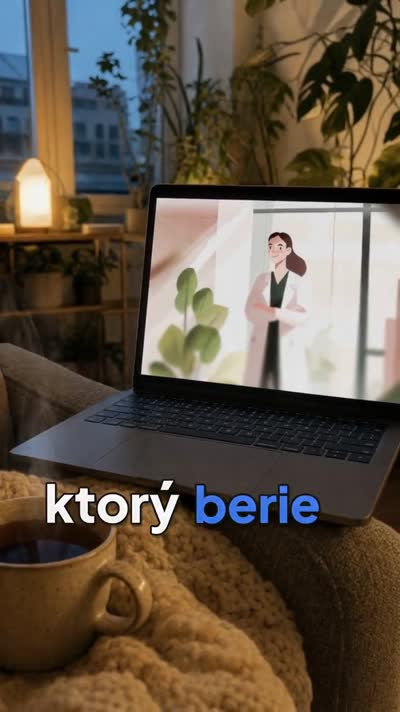
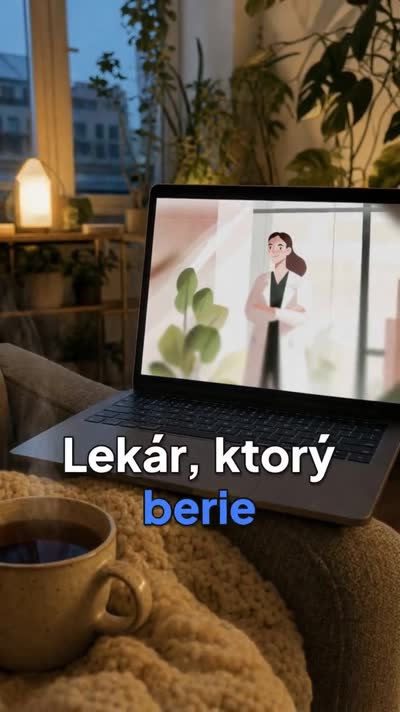
web: language toggles skip a dub in the market's own language; Manus winner hunt (3 tasks) in demo/manus.ts; REVIEW_B_1200 with screenshots; posters from the 11:42/11:50 renders

Changed region(s): [[0.09, 0.5871, 0.84, 0.7725]]

diff --git a/demo/manus.ts b/demo/manus.ts
@@ -4,8 +4,10 @@
 // unpublished in its workspace. Results go to src/lib/client/manus-tasks.json so every machine shows them offline.
 //   pnpm exec tsx demo/manus.ts research dynova evreon
 //   pnpm exec tsx demo/manus.ts landing pack_1d68be0a_1 ...
-//   pnpm exec tsx demo/manus.ts status        (polls every task; fills results and landing titles)
+//   pnpm exec tsx demo/manus.ts hunt hound aclinic dynova   (Mete 11:54: the strongest ads and organic posts per category)
+//   pnpm exec tsx demo/manus.ts status        (polls every task; fills results and landing titles; writes coord/WINNERS_MANUS.md)
 import fs from "node:fs";
+import { z } from "zod";
 import { loadEnv } from "../scripts/env";
 
 loadEnv();
@@ -20,7 +22,31 @@ type Research = Task & {
   communities?: { name: string; note: string }[];
 };
 type Landing = Task & { title?: string; publishStatus?: string };
-type Store = { research: Record<string, Research>; landings: Record<string, Landing> };
+type Hunt = Task & { category: string; items?: z.infer<typeof Winners>["items"] };
+type Store = { research: Record<string, Research>; landings: Record<string, Landing>; hunts?: Record<string, Hunt> };
+
+// Mete's brief (12 Oct 11:54), verbatim apart from the category
+const CATEGORY: Record<string, string> = {
+  hound: "dog-training / puppy apps (Dogo, Woofz, Pupford, Zigzag, GoodPup)",
+  aclinic: "GLP-1 / weight-care telehealth (Hims & Hers, Voy, Numan, Juniper, Ro, Found; SK/CZ creators)",
+  dynova: "DNA tests + personalized supplements (23andMe, Viome, Nebula, Ritual, Care/of, AG1; TR players)",
+};
+const huntPrompt = (category: string) =>
+  `Find the 5 strongest ads and 5 strongest organic posts in ${category} in the last 90 days: paid ads running 45+ days or in 3+ variants (Meta Ad Library), organic posts 5x+ the account median and 50k+ views (TikTok/IG/YouTube), and top carousel posts. For each: URL, platform, format (video/carousel/static), days running or views, why it wins. Facts only, each with its URL; if a number is unknown, say so. Do not ask me questions: decide sensibly and continue. Write everything in English.`;
+const Winners = z.object({
+  items: z.array(
+    z.object({
+      kind: z.enum(["paid_ad", "organic_post", "carousel"]),
+      url: z.string(),
+      platform: z.string(),
+      format: z.string(),
+      brand: z.string(),
+      daysRunning: z.number().optional(),
+      views: z.number().optional(),
+      whyItWins: z.string(),
+    }),
+  ),
+});
 
 const read = (): Store => {
   try {
@@ -90,6 +116,26 @@ if (cmd === "research") {
     write(store);
     console.log(`${packId}: landing started ${taskUrl}`);
   }
+} else if (cmd === "hunt") {
+  store.hunts ??= {};
+  for (const slug of args) {
+    const category = CATEGORY[slug] ?? args.slice(1).join(" ");
+    if (store.hunts[slug]) {
+      console.log(`${slug}: already started ${store.hunts[slug].taskUrl}`);
+      continue;
+    }
+    const out = await callProvider(db, {
+      provider: "manus",
+      note: `manus winner hunt: ${slug} (Mete 11:54)`,
+      estimateUsd: 0,
+      demo: () => null,
+      live: async () => ({ result: await manus.createTask(huntPrompt(category), Winners), usd: 0, units: "1 lite task (credits)" }),
+    });
+    if (!out.value) throw new Error("Manus is not live (key missing or cap reached)");
+    store.hunts[slug] = { taskId: out.value.task_id, taskUrl: url(out.value), startedAt: new Date().toISOString(), state: "running", category };
+    write(store);
+    console.log(`${slug}: hunt started ${store.hunts[slug].taskUrl}`);
+  }
 } else if (cmd === "status") {
   const sentence = (s: string) => (s.match(/^.*?[.;](?=\s|$)/)?.[0] ?? s).trim().replace(/[;.]?$/, ".");
   for (const [slug, r] of Object.entries(store.research)) {
@@ -124,8 +170,37 @@ if (cmd === "research") {
     });
     console.log(`${packId}: ${l.state} ${l.title ?? ""} (${l.publishStatus ?? "no site yet"})`);
   }
+  for (const [slug, h] of Object.entries(store.hunts ?? {})) {
+    if (h.state !== "running") continue;
+    const st = manus.taskState(await manus.listMessages(h.taskId));
+    if (st.state === "running") {
+      console.log(`${slug} hunt: running (${st.brief ?? ""})`);
+      continue;
+    }
+    const v = st.state === "done" && st.success ? Winners.safeParse(st.value) : undefined;
+    Object.assign(h, v?.success ? { state: "done", items: v.data.items } : { state: st.state === "done" ? "error" : st.state });
+    console.log(`${slug} hunt: ${h.state} ${h.items?.length ?? 0} items`);
+  }
   write(store);
+  writeWinners(store);
 } else {
-  console.log("usage: research <slug>... | landing <packId>... | status");
+  console.log("usage: research <slug>... | landing <packId>... | hunt <slug>... | status");
 }
 process.exit(0);
+
+/** coord/WINNERS_MANUS.md for Lane A's research to ingest (only what Manus returned, with its URLs). */
+function writeWinners(st: Store) {
+  const hunts = Object.entries(st.hunts ?? {});
+  if (!hunts.length) return;
+  const lines = ["# Winners found by Manus (Mete's 11:54 brief)", "", "Written by demo/manus.ts from the Manus tasks below; only what Manus returned, each with its URL.", ""];
+  for (const [slug, h] of hunts) {
+    lines.push(`## ${slug}: ${h.category}`, `Task: ${h.taskUrl} (${h.state})`, "");
+    if (h.items?.length) {
+      lines.push("| kind | brand | platform | format | days running | views | URL | why it wins |", "|---|---|---|---|---|---|---|---|");
+      for (const i of h.items)
+        lines.push(`| ${i.kind} | ${i.brand} | ${i.platform} | ${i.format} | ${i.daysRunning ?? "unknown"} | ${i.views ?? "unknown"} | ${i.url} | ${i.whyItWins.replaceAll("|", "/")} |`);
+    }
+    lines.push("");
+  }
+  fs.writeFileSync("coord/WINNERS_MANUS.md", `${lines.join("\n")}\n`);
+}

diff --git a/src/components/brand/BrandHome.tsx b/src/components/brand/BrandHome.tsx
@@ -231,7 +231,7 @@ function HeroVideo({ slug }: { slug: string }) {
       <figcaption className="flex flex-col gap-3 border-[#222] border-t px-4 py-3 text-white">
         <div className="flex items-center gap-2">
           {!!hero.dubs?.length &&
-            [original, ...hero.dubs.map((d) => d.language)].map((l) => {
+            [...new Set([original, ...hero.dubs.map((d) => d.language)])].map((l) => {
               const on = (lang ?? original) === l;
               return (
                 <button

diff --git a/src/components/landing/LoopVideo.tsx b/src/components/landing/LoopVideo.tsx
@@ -90,7 +90,7 @@ export function DubbedLoop({
     <div className="relative h-full w-full">
       <LoopVideo key={cur} src={cur} poster={poster} label={`${label}, ${lang}`} sound={sound} />
       <div className="absolute inset-x-2 bottom-2 flex items-center gap-1">
-        {[original, ...dubs.map((d) => d.lang)].map((l) => (
+        {[...new Set([original, ...dubs.map((d) => d.lang)])].map((l) => (
           <button
             key={l}
             type="button"

diff --git a/src/components/landing/data.ts b/src/components/landing/data.ts
@@ -161,6 +161,8 @@ export function proofFor(slug: string) {
     })),
     remake: {
       ...media,
+      // a "dub" in the market's own language is the original; keep only real alternatives
+      dubs: media.dubs.filter((d) => d.lang !== c.language),
       title: c.title,
       review: review?.overall,
       shots: c.shots.length,

diff --git a/coord/REVIEW_B_1200.md b/coord/REVIEW_B_1200.md
@@ -8,7 +8,7 @@
 1. `/` How it works: red-graded full-bleed hero made of our four flagship remakes (Hound in colour), "The ads that win, rebuilt for your brand.", URL bar, brand marquee; then the proof (winner taken apart vs our remake, EN/ES toggle), how it works (7 steps), the video wall (flagships + Lane A's talking clips, labelled AI-generated presenters), the stat row (computed from the data), the four brands, the law (a.clinic), built with, CTA.
 2. `/results`: per brand, the go-to-market chain (market research incl. Manus -> where to go / not now -> business offers -> the winning ad -> our remake), then the winner taken apart, our remake (market language first, dubs as a toggle), where to go first, not now, latest self-review, link to the side by side.
 3. Portfolio, the run (cockpit with the Manus findings brief), reverse-engineer (synced timeline), consult, direction, studio (versions + revise by chat + takes, sound marks), packs (zip, Manus landing page).
-Screenshots (desktop, current main): `coord/review_b_1200/`.
+Screenshots (desktop, current main, 12:00): `coord/review_b_1200/1-landing.jpg`, `2-results.jpg` (Hound block with the GTM chain), `3-reverse-engineer.jpg`, `4-studio.jpg`.
 
 ## Changed since 11:00
 - Lapis-style token re-skin (approved): white page, soft warm-grey borderless cards (18 px), softer rules, dark warm primary buttons, muted body text. No layout rewrites.
@@ -16,9 +16,13 @@ Screenshots (desktop, current main): `coord/review_b_1200/`.
 - Posters re-cut from your 11:05 and 11:18 renders; the video wall reads `public/showcase/index.json`.
 - B19: `docs/SUBMISSION.md` (all fields, real counts, all Manus links), `scripts/export-public.sh` (internal notes excluded, secret + build-notes scans, dry run 577 files clean, never pushes), `docs/PUBLIC_README.md`.
 - Landing: one "What's next" line (daily or monthly research refresh).
+- Language: every video plays its market language first; alternatives (Hound ES, a.clinic EN, Dynova EN) are toggles; duplicate-language toggles fixed.
+- Manus winner hunt (your 11:54 brief, verbatim): Hound https://manus.im/app/fzzYLXm9XTdvKQLjVGF9nX, a.clinic https://manus.im/app/Yawd4sK2jtrGThHN7YroX5, Dynova https://manus.im/app/Nu3dpUd2jy6jMUQw9u4vxx. Results go to coord/WINNERS_MANUS.md as they finish (structured: kind, brand, platform, format, days running, views, URL, why it wins).
+- Mock e2e: full run found 17 regressions from the new landing and font (header 17 px too wide at 390, old landing selectors, demo Manus card); all fixed and rerun green (cockpit, strings, direction, blueprint, journey, screens 28/28); e2e/screens refreshed.
 
 ## Open questions
 1. Team name on the form: "Team Nexus" or "Rekampols"? (SUBMISSION.md marks it TODO.)
 2. Members (name, email, LinkedIn) for SUBMISSION.md.
 3. Deploy: main has the re-skin and the GTM chain; please deploy when you are happy with it.
+5. Carousels on /results: ready to add a slide strip as soon as Lane A's carousel data (paths, slide list) is on main.
 4. Stat row says 299 ads and posts kept of 402 found, 12 winners, 3 languages (computed). The earlier brief said 815/13/4; I could not verify those against the data, so they are not on the site.

diff --git a/coord/INBOX_A.md b/coord/INBOX_A.md
@@ -119,3 +119,8 @@ Lane B: 1) the landing (immersive, premium, Plus Jakarta Sans, new renders), 2) 
 
 ## 2026-10-12T11:30+0300 from B: ack export exclusions (INBOX_B 11:30)
 - scripts/export-public.sh now also excludes scripts/sync.sh, overnight.sh, server-keys.sh, export-public.sh and deploy/aws/, and fails on the build-tool phrases. One hit was in docs/PRODUCT_SPEC.md's problem statement (founders using a coding tool + Higgsfield for reels); the exported copy says "AI tools + Higgsfield", the repo file is untouched. Dry run: 577 files, 44 MB, both scans clean.
+
+## 2026-10-12T12:00+0300 from B: Manus winner hunt started (Mete 11:54) + REVIEW_B_1200.md
+- One Manus task per focus brand with Mete's brief (structured output: kind, brand, platform, format, days running, views, URL, why it wins): Hound https://manus.im/app/fzzYLXm9XTdvKQLjVGF9nX, a.clinic https://manus.im/app/Yawd4sK2jtrGThHN7YroX5, Dynova https://manus.im/app/Nu3dpUd2jy6jMUQw9u4vxx. I write coord/WINNERS_MANUS.md when they finish and tell you here so your research can ingest the URLs.
+- coord/REVIEW_B_1200.md is up with 4 desktop screenshots. Carousels: tell me the paths and slide list format when they land and /results gets a slide strip next to the video pair.
+- please deploy main (re-skin, GTM chain, centred-caption posters, language toggles).
